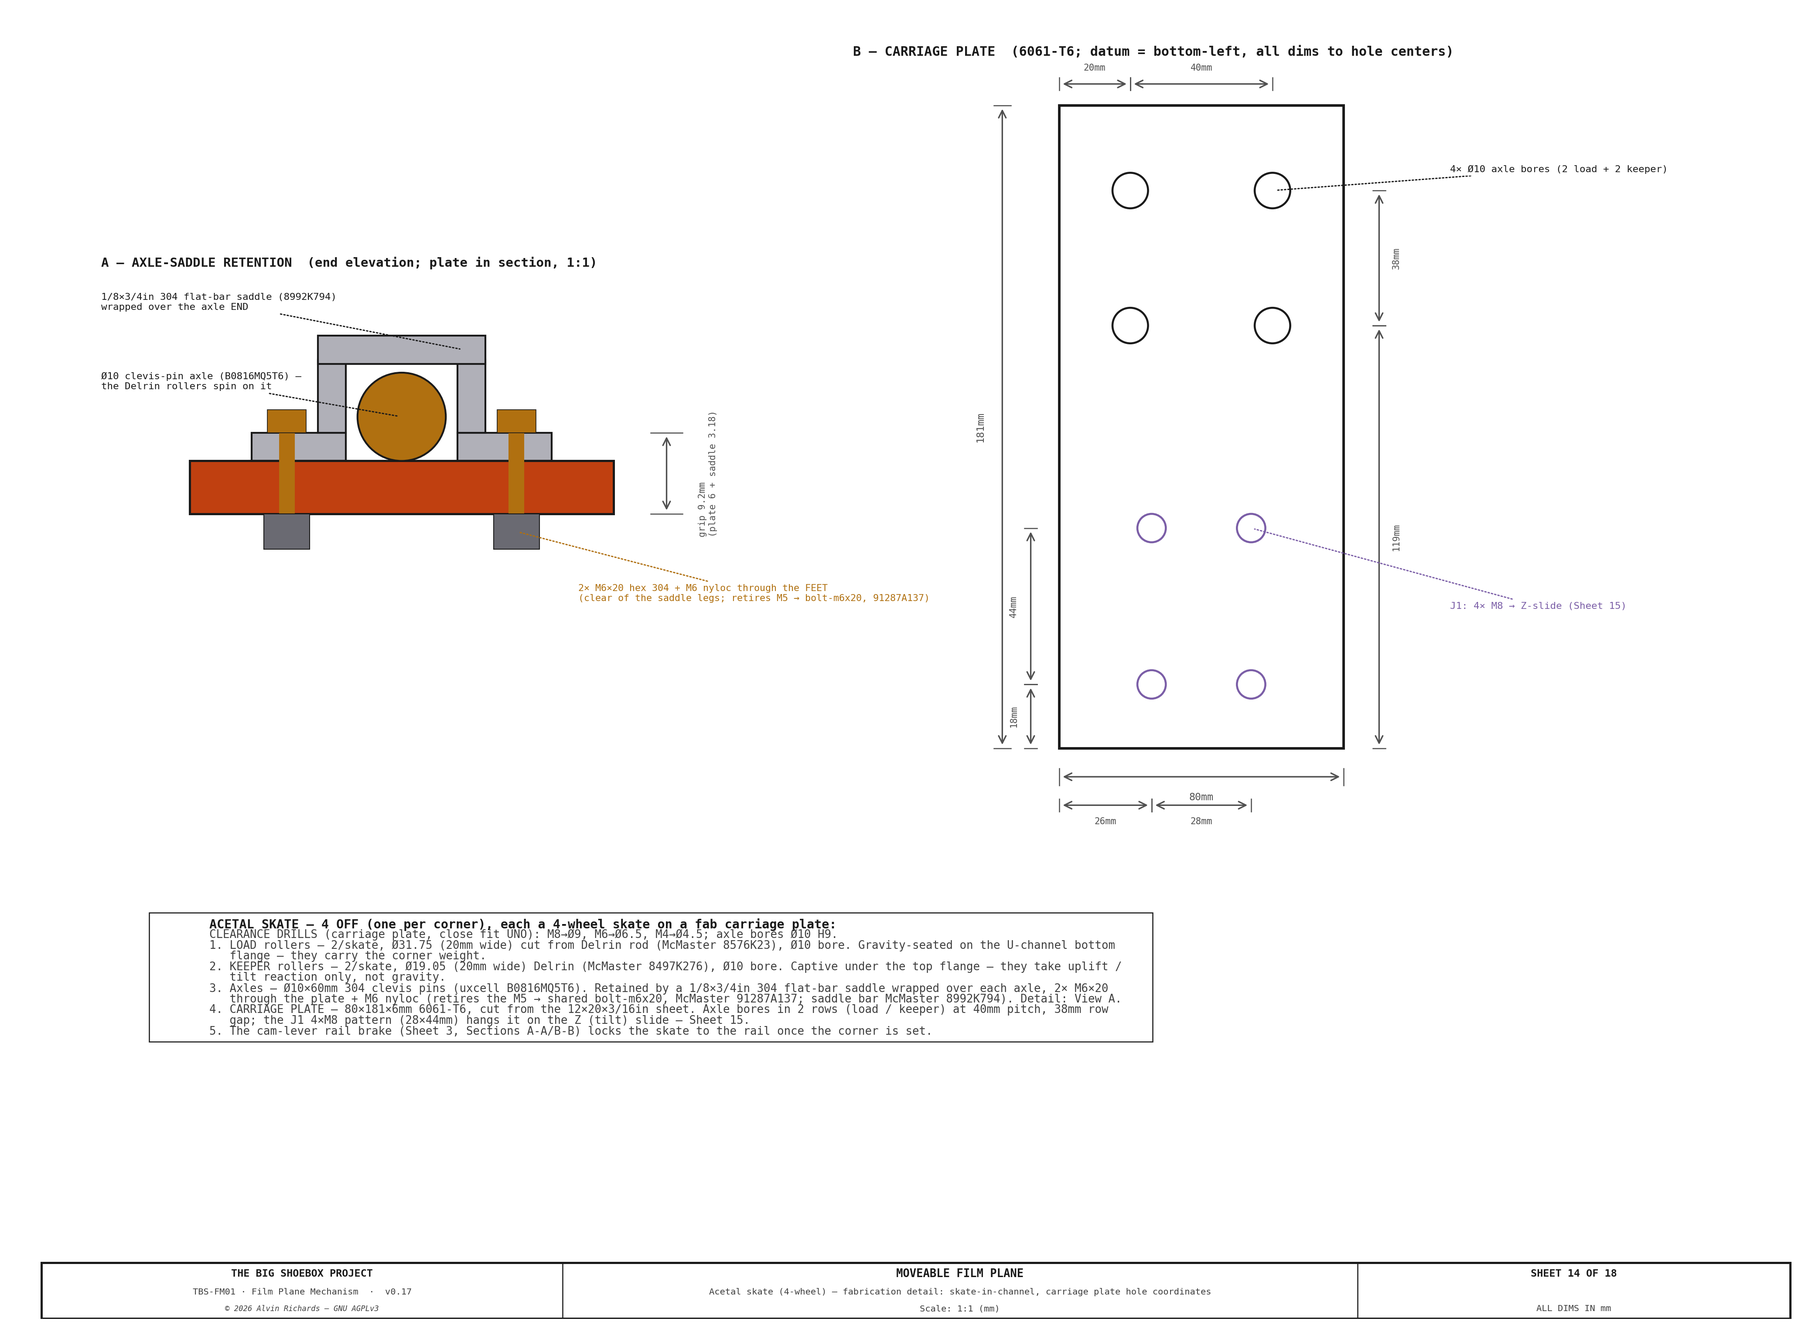
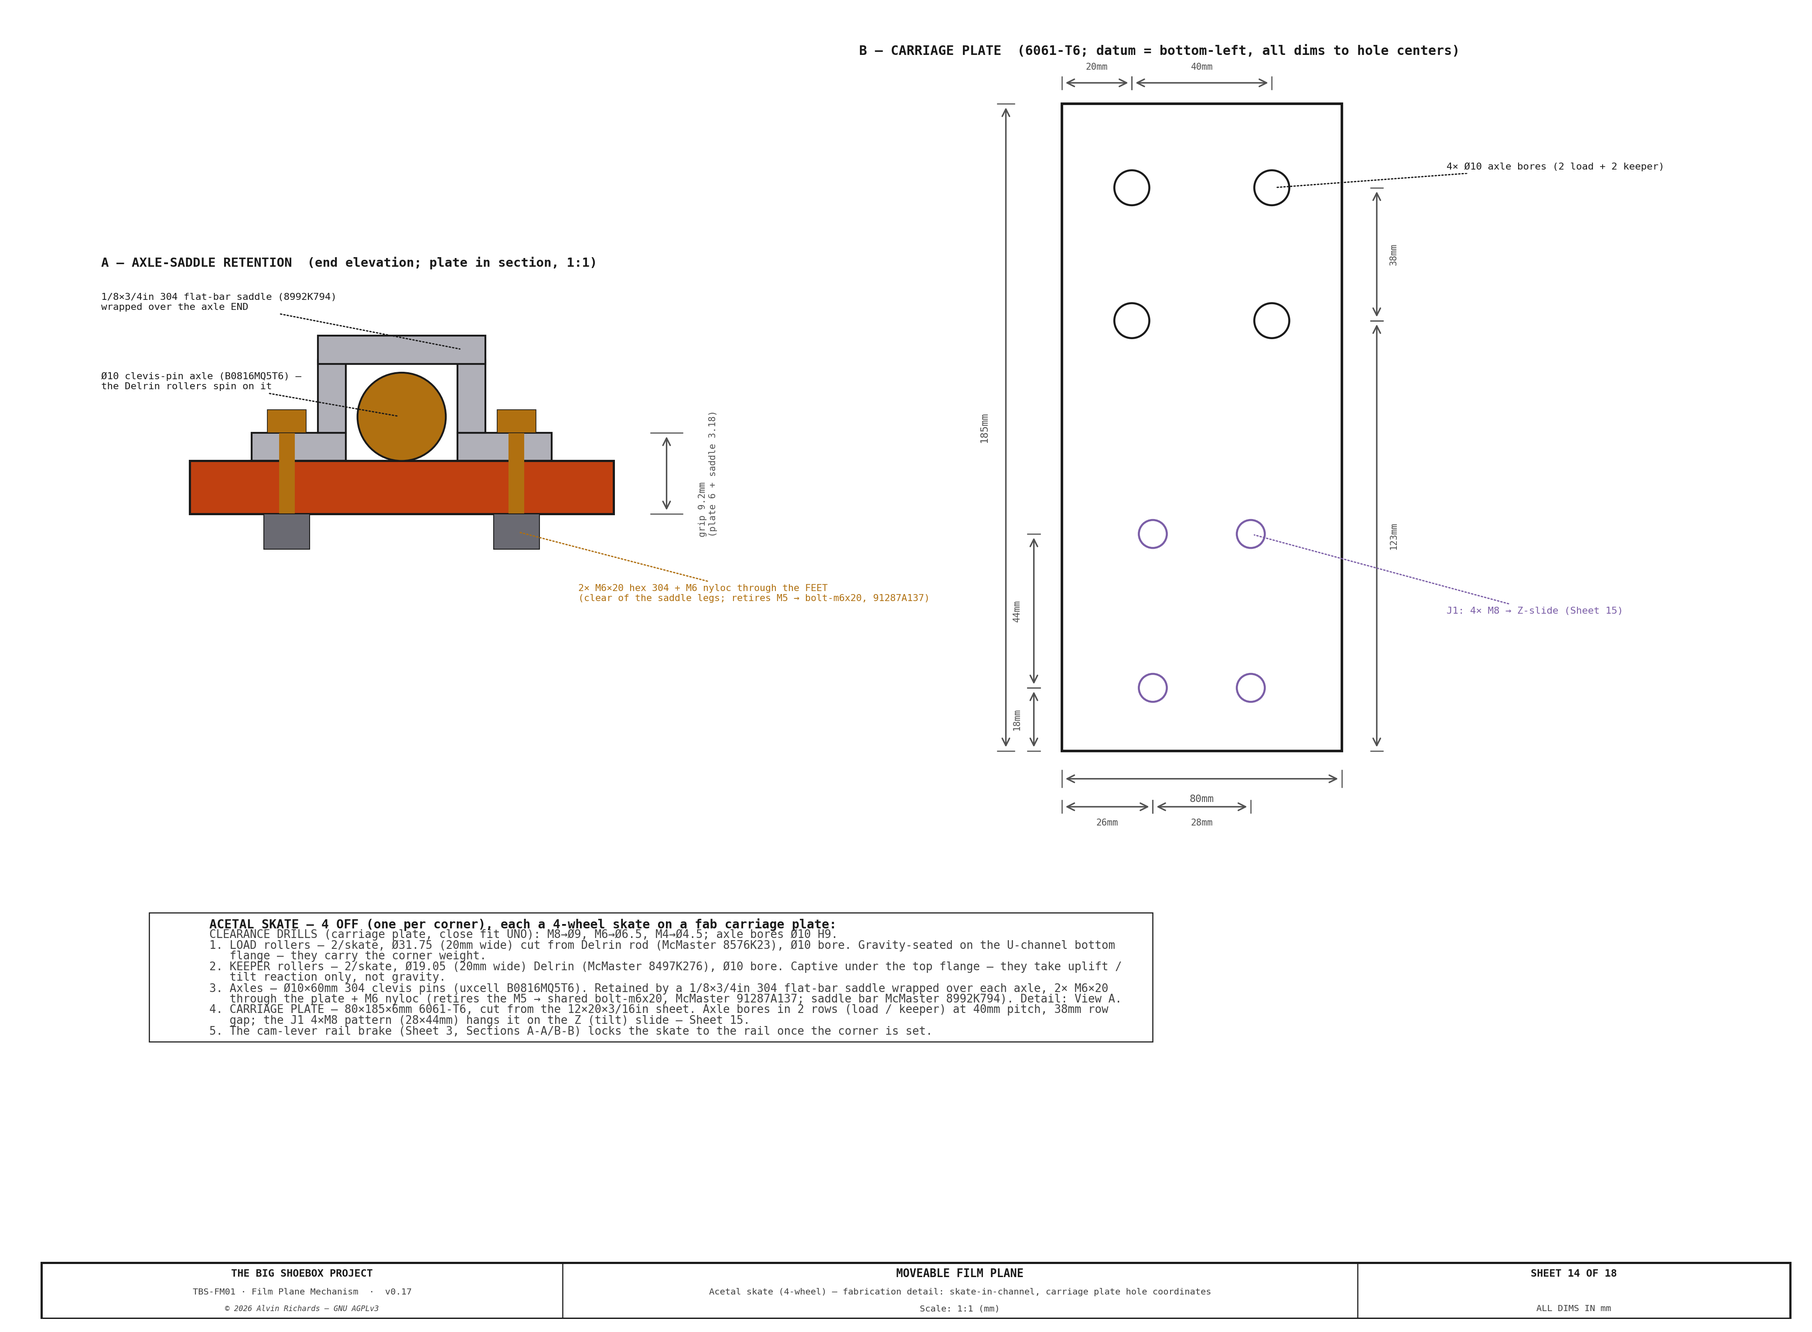
5mm fab-cut audit: carriage plate H 181->185; note gusset/gib exemptions
Swept all fabricated-part cut dimensions against the Track-B 5mm rule
(tbs_constants, model-local _CUT/_BLANK, parts.py fab rows). One true
violation: CARRIAGE_PLATE_H 181 -> 185 (skate carriage plate, 6mm 6061,
sheared from a 12x20 sheet) — rounded UP so the keeper-axle edge-distance
margin (min 171) is kept. 2D/docs only: the 3D corner builder derives the
plate height geometrically, not from the constant, so no model re-send.

Documented two in-place exemptions so a future audit won't re-flag them:
the corner L-gusset (CORNER_PLATE_LEG/CUT = 4in/6in, a laser/waterjet DXF
profile, not a saw/shear-fence cut) and XSLIDE_GIB_W (12mm stock brass
flat-bar width). Everything else already on 5mm / COTS / interface-pinned.

Sheets 3 + 14 re-rendered; lint byte-diff confirms the other 15 unchanged.

diff --git a/src/generators/tbs_constants.py b/src/generators/tbs_constants.py
@@ -199,7 +199,7 @@ XSLIDE_BAR_T = 6.35    # cross-slide flat-bar thickness (mm) = 1/4"
 XSLIDE_Z_BAR_LEN = 345 # Z (tilt) slide bar cut length (mm) = XSLIDE_Z_TRAVEL 245 + ~carriage/margin — sized to hold MAX_TILT (corner blueprint 2026-08-10)
 XSLIDE_X_BAR_LEN = 365 # X (swing) slide bar cut length (mm) = XSLIDE_X_TRAVEL 257 + ~carriage/margin — sized to hold MAX_SWING
 XSLIDE_UHMW_T = 3.2    # UHMW self-lube pad thickness (mm, 1/8") between carriage and bar bearing faces
-XSLIDE_GIB_W  = 12     # adjustable gib width (mm) — brass-tipped taper strip on one bar edge
+XSLIDE_GIB_W  = 12     # adjustable gib width (mm) — brass-tipped taper strip on one bar edge (stock brass flat-bar width; 5mm-cut-rule exempt)
 XSLIDE_GIB_T  = 6.35   # gib thickness (mm) = 1/4"
 XSLIDE_CARR_WALL = 8   # cross-slide carriage wall thickness (mm) around the bar
 # Belden SSNBUJ750x3/8KB needle-bearing U-joint (Grainger 41D816; datasheet eng-specs/grainger-41d816.pdf):
@@ -222,9 +222,10 @@ SKATE_AXLE_OD   = 10     # axle-pin OD (mm) — 10x60mm 304 clevis pin
 SKATE_AXLE_LEN  = 60     # axle-pin length (mm)
 SKATE_ROLLER_SP = 40     # load-roller pitch along the rail (Yd) on the carriage plate (mm)
 # Skate carriage plate — 6mm 6061-T6; the MOVING part the 4-wheel skate + Z-slide + cam clamp mount to
-# (Sheet 3 View A). H grown 171→181 so the top keeper-axle row clears its ≥2×Ø10 edge distance.
+# (Sheet 3 View A). H needs ≥171 so the top keeper-axle row clears its ≥2×Ø10 edge distance; rounded UP
+# to 185 per the 5mm cut rule (sheared from a 12×20 sheet — the extra 4mm keeps the edge-distance margin).
 CARRIAGE_PLATE_W  = 80   # plate width along Yd (mm)
-CARRIAGE_PLATE_H  = 181  # plate height along Z (mm) — grown +10 for keeper-axle edge distance
+CARRIAGE_PLATE_H  = 185  # plate height along Z (mm) — keeper-axle edge distance (min 171), rounded up to the 5mm cut
 CARRIAGE_PLATE_T  = 6    # plate thickness (mm) — 6061-T6
 CARRIAGE_AXLE_ROW_SP = 38  # Z gap between the load-axle row and the keeper-axle row (mm)
 # 4 SHORT STUB axles (Ø SKATE_AXLE_OD) at ±SKATE_ROLLER_SP/2 (Yd) × 2 rows (load / keeper).
@@ -234,7 +235,8 @@ CARRIAGE_J1_SP_Z  = 44   # J1 4×M8 Z-slide-mount hole pattern height (Z, mm)
 # both arms coplanar in the frame plane (parts.py corner-l-plate; was a press-brake 6×8 L-plate until
 # 2026-09-05, then a stock 4×4×¼ bent ANGLE until 2026-10-21 — the bent leg fouled the cross-slide/carriage
 # packaging, so the mount is now a FLAT L-plate with both legs in the frame plane). LEG/CUT define the L: two
-# 4in arms, ~6in overall span, ¼in thick:
+# 4in arms, ~6in overall span, ¼in thick. (5mm-cut-rule EXEMPT: a laser/waterjet DXF profile, not a
+# saw/shear-fence cut — the round 4in/6in imperial gains nothing from a metric 5mm round.)
 CORNER_PLATE_LEG = 101.6   # L-gusset arm width (mm) = 4"
 CORNER_PLATE_CUT = 152.4   # L-gusset overall span along each frame member (mm) = 6"
 CORNER_PLATE_T   = 6.35    # plate thickness (mm) = 1/4"

diff --git a/src/generators/parts.py b/src/generators/parts.py
@@ -800,7 +800,7 @@ PARTS: list[Part] = [
          spec="Nyloc nut under the carriage plate — M6×20 skate axle-saddle screws (2/saddle ×16 = 32). Transport-vibration-safe. Pitch M6×1.0 coarse — 90576A115. $4.77/pack of 100."),
     Part("fp-carriage-plate", "Skate carriage plate (×4) — fab", "steel-structural",
          "film", 4, "ea", 34, 59, "local fab",
-         spec="One carriage plate per corner — carries the 4 rollers on their axles + the inboard lip; the U-joint/cross-slide stack bolts to it. The only fab piece of the skate. FIRM DESIGN (Sheet 3 View A): 80×181×6mm 6061-T6 (aluminum; grown to 181 tall so the top keeper-axle row clears its ≥2×Ø10 edge distance). Hole pattern: 4× Ø10 stub-axle holes on a 40(Yd)×38(Z) grid + 4× M8 (J1) to the Z-slide (28×44) + 2× M4 for the cam-clamp base; all holes ≥2×Ø from the edges. Est. cost — firm at fab quote."),
+         spec="One carriage plate per corner — carries the 4 rollers on their axles + the inboard lip; the U-joint/cross-slide stack bolts to it. The only fab piece of the skate. FIRM DESIGN (Sheet 3 View A): 80×185×6mm 6061-T6 (aluminum; min 171 tall so the top keeper-axle row clears its ≥2×Ø10 edge distance, rounded up to 185 per the 5mm cut rule). Hole pattern: 4× Ø10 stub-axle holes on a 40(Yd)×38(Z) grid + 4× M8 (J1) to the Z-slide (28×44) + 2× M4 for the cam-clamp base; all holes ≥2×Ø from the edges. Est. cost — firm at fab quote."),
     Part("fp-cross-slide", "304 flat-bar Z (tilt) + X (swing) cross-slides + UHMW pad + gib", "steel-structural",
          "film", 4, "set", 79, 129, "Metal Supermarkets", "McMaster-Carr",
          spec="One 2-axis cross-slide stack per corner — 304 flat-bar Z (tilt) + X (swing) slides on UHMW pads with an adjustable gib. MOUNT DEEP: the 38.1mm bar dimension runs in the gravity/load direction, NOT flat (Sheet 10 load case — deep SF≈10 vs flat 1.7; flat fails a 2× factor). FLAT-BAR STOCK: 304 SS ¼\"×1½\" (6.35×38.1mm); 8 pieces (4× ~345mm Z-tilt + 4× ~365mm X-swing) ≈ 2.84m cut length → order 2× 8ft lengths (bars grown from the ~250mm est to hold ±40°/±28°: the cross-slide stroke needs travel + carriage — corner blueprint 2026-08-10). 304 (not 316) — the cyanotype wash has no chloride, so 316's pitting resistance is unused; 304 is adequate in the splash zone. FLAT BAR FIRM: Metal Supermarkets ¼×1½×8ft 304 $134.73 (2026-08-01); 2× 8ft = $269.46 = ~$67/set of bar. UHMW pad + brass-tip gib + cut/assemble fab still est — the $316–516 range brackets bar + those adds; get a fab quote to firm the balance."),

diff --git a/src/generators/generate_film_plane_mechanism.py b/src/generators/generate_film_plane_mechanism.py
@@ -710,7 +710,7 @@ def view_a(ax):
         ax.plot([p[0] for p in zz],[p[1] for p in zz], color=OUT, lw=0.7, zorder=4)
     # ── WIDE carriage plate (red) — the MOVING part, drawn FULLY and IN FRONT: it extends UP over the skate, so
     #    the 4 wheels sit BEHIND it and are shown ghosted (dotted). The Z-slide (green) runs up its centre. ──
-    _rect(ax, 130, 134, CARRIAGE_PLATE_W, CARRIAGE_PLATE_H, C_CAR, z=5)              # carriage plate 80×181×6mm 6061-T6 (top grown +10 for keeper-axle edge dist)
+    _rect(ax, 130, 134, CARRIAGE_PLATE_W, CARRIAGE_PLATE_H, C_CAR, z=5)              # carriage plate 80×185×6mm 6061-T6 (keeper-axle edge dist, rounded up to the 5mm cut)
     # ── carriage-plate HOLE PATTERN (located, ≥2×Ø edge distance) ─────────────────
     _ax_yd = (170 - SKATE_ROLLER_SP / 2, 170 + SKATE_ROLLER_SP / 2)                  # ±SKATE_ROLLER_SP/2
     _ax_z = (253, 253 + CARRIAGE_AXLE_ROW_SP)                                        # load row / keeper row

diff --git a/docs/film-plane-mechanism-report.md b/docs/film-plane-mechanism-report.md
@@ -223,7 +223,7 @@ All items ship within the United States. Local Southern California pickup noted 
 | [1/8×3/4in 304 flat-bar axle saddles (skate) — 2 ft bar](https://www.mcmaster.com/8992K794-8992K797/) (8992K794) | Axle retention — formed from 1/8" (3.18mm) × 3/4" (19mm) 304 SS flat bar, wrapped over each Ø10 axle (1mm cradle clearance) with two ~12mm feet bolted through the carriage plate (2× Ø6.5 M6). One saddle per axle, 4/skate ×4 = 16; 8 cut per 2 ft (610mm) length → 2 bars. Same stock + method as the spray skate. $9.84/2 ft bar (confirmed 2026-09-06). | 2 2 ft bar | McMaster-Carr | $20 |
 | [M6×1.0 × 20 hex bolt, 304 SS (A2-70)](https://www.mcmaster.com/91287A137/) (91287A137) | Skate axle-saddle retention — 2× M6 per saddle, 16 saddles = 32. Grip = 6mm carriage plate + 3.18mm saddle foot ≈ 9.2mm → M6×20 (nyloc under the plate). 304 SS A2-70 (wet cyanotype zone; no chloride → 316 unneeded). Consolidated onto the shared M6×20 — retires the former M5 (one M6 family, fastener-standardization). McMaster 91287A137 $17.77/pack of 50 firm. | 32 ea | McMaster-Carr | $11 |
 | [M6×1.0 hex nut, nyloc SS](https://www.mcmaster.com/90576A115/) (90576A115) | Nyloc nut under the carriage plate — M6×20 skate axle-saddle screws (2/saddle ×16 = 32). Transport-vibration-safe. Pitch M6×1.0 coarse — 90576A115. $4.77/pack of 100. | 32 ea | McMaster-Carr | $2 |
-| Skate carriage plate (×4) — fab | One carriage plate per corner — carries the 4 rollers on their axles + the inboard lip; the U-joint/cross-slide stack bolts to it. The only fab piece of the skate. FIRM DESIGN (Sheet 3 View A): 80×181×6mm 6061-T6 (aluminum; grown to 181 tall so the top keeper-axle row clears its ≥2×Ø10 edge distance). Hole pattern: 4× Ø10 stub-axle holes on a 40(Yd)×38(Z) grid + 4× M8 (J1) to the Z-slide (28×44) + 2× M4 for the cam-clamp base; all holes ≥2×Ø from the edges. Est. cost — firm at fab quote. | 4 ea | Local fab | $136–$236 |
+| Skate carriage plate (×4) — fab | One carriage plate per corner — carries the 4 rollers on their axles + the inboard lip; the U-joint/cross-slide stack bolts to it. The only fab piece of the skate. FIRM DESIGN (Sheet 3 View A): 80×185×6mm 6061-T6 (aluminum; min 171 tall so the top keeper-axle row clears its ≥2×Ø10 edge distance, rounded up to 185 per the 5mm cut rule). Hole pattern: 4× Ø10 stub-axle holes on a 40(Yd)×38(Z) grid + 4× M8 (J1) to the Z-slide (28×44) + 2× M4 for the cam-clamp base; all holes ≥2×Ø from the edges. Est. cost — firm at fab quote. | 4 ea | Local fab | $136–$236 |
 | 304 flat-bar Z (tilt) + X (swing) cross-slides + UHMW pad + gib | One 2-axis cross-slide stack per corner — 304 flat-bar Z (tilt) + X (swing) slides on UHMW pads with an adjustable gib. MOUNT DEEP: the 38.1mm bar dimension runs in the gravity/load direction, NOT flat (Sheet 10 load case — deep SF≈10 vs flat 1.7; flat fails a 2× factor). FLAT-BAR STOCK: 304 SS ¼"×1½" (6.35×38.1mm); 8 pieces (4× ~345mm Z-tilt + 4× ~365mm X-swing) ≈ 2.84m cut length → order 2× 8ft lengths (bars grown from the ~250mm est to hold ±40°/±28°: the cross-slide stroke needs travel + carriage — corner blueprint 2026-08-10). 304 (not 316) — the cyanotype wash has no chloride, so 316's pitting resistance is unused; 304 is adequate in the splash zone. FLAT BAR FIRM: Metal Supermarkets ¼×1½×8ft 304 $134.73 (2026-08-01); 2× 8ft = $269.46 = ~$67/set of bar. UHMW pad + brass-tip gib + cut/assemble fab still est — the $316–516 range brackets bar + those adds; get a fab quote to firm the balance. | 4 set | Metal Supermarkets / McMaster-Carr | $316–$516 |
 | [M8×1.25 × 25 hex bolt, 304 SS (A2-70) — cross-slide joints J1/J2](https://www.mcmaster.com/92314A711/) (92314A711) | J1 (skate carriage → Z-slide) + J2 (X-way → Z-carriage) — 4× M8×25 each, 2 joints/corner ×4 = 32. THROUGH-BOLT + M8 nut (flat washer under head, split under nut), 24 N·m, Loctite 243 (Sheet 12). Length M8×25 for the 14mm J1 grip (6mm carriage plate + 8mm Z-carriage wall) + 2 washers + nut. 304 SS A2-70 (wet cyanotype zone; no chloride → 316 unneeded). McMaster 92314A711 $10.60/pack of 25 (sourced 2026-09-06). | 32 ea | McMaster-Carr | $14 |
 | [M8 flat washer, 304 SS](https://www.mcmaster.com/98689A673/) (98689A673) | Flat washer under each J1/J2 M8×25 head (Sheet 12). 304 SS, wet zone. McMaster 98689A673 $13.59/pack of 50 (sourced 2026-09-06). | 32 ea | McMaster-Carr | $9 |

diff --git a/RELEASE.md b/RELEASE.md
@@ -26,6 +26,7 @@ is no separate publish step to run afterward.
 
 ## [Unreleased]
 
+- **5mm fab-cut-dimension audit (all fabricated parts).** Extended the Track-B plywood 5mm cut rule to every fabricated part (steel/aluminum/stainless/plastics), sweeping all ~382 dimensional `tbs_constants`, the model-local `_CUT`/`_BLANK` dims, and the `parts.py` fab rows. The set was already almost entirely compliant (on-5mm, COTS stock, thickness/diameter, or interface-pinned). **One true violation fixed:** `CARRIAGE_PLATE_H` 181 → **185** (skate carriage plate, 6mm 6061, sheared from a 12×20 sheet) — rounded UP so the keeper-axle edge-distance margin (min 171) is preserved; cascaded to `parts.py`, the film-plane sheets, and the two hand-maintained specs. **2D/docs only — no model re-send** (the 3D corner builder derives the plate height geometrically, not from the constant). **Two exemptions documented in-place** so a future audit won't re-flag them: the corner L-gusset (`CORNER_PLATE_LEG`/`CUT` = 4″/6″, a laser/waterjet DXF profile, not a saw/shear-fence cut) and `XSLIDE_GIB_W` (12mm stock brass flat-bar width).
 - **Left-rail-move (260) stale-value cleanup (TODO #21).** Swept the pre-260 residue the value-sweep left in *rationale comments + rendered labels* (the drawings were already constant-driven, so geometry was correct): `tbs_constants.py` — the retired bearer-beam/3-floor-leg block rewritten to the current 5-floor-leg cantilever design, the drum-exit punch-out comment re-derived (reach 880 / 600 mm over Yd 800–1560), the stale `LEFT_WK_CANT_FOOT_X0 ≈147` comment fixed to 110; `processing-tray-and-spray-bar.md` — the LDPE manifold ends corrected to the beam ends **X=310 / X=4,599**; and the walkway/spray/floorplan diagram generators — the `generate_walkway_diagram.py` Detail-C header (retired edge-beam → current cantilever), its visible "TRAY RIM (X170)" / "FLOOR-LEG…(X140)…X470…X770" labels and inline `# NNN` comments → `280/250/580/880`. Two walkway sheets re-rendered. (Left flagged in TODO: a couple of ambiguous Sheet-4 butt-joint "edge beam / bearer (X=470)" refs + a possibly-current sub-plate `X=140`.)
 - **Dead-constant sweep — resolved the 23 reserved/unused `tbs_constants` (TODO #22).** Audited each: **17 dropped** (genuinely dead design intent + five redundant aliases of still-used constants — `RWK_HL`→`RWK_HL_TIP`, `SPRAY_BAR_HOLE_SP`→`SPRAY_BAR_NOZZLE_PITCH`, `LT_EDGE_CHAN_*`→`LT_HBAR_*`, plus `UJOINT_HUB_L/BOOT_LEN`, the `CAM_CLAMP_*` detail dims, `BRACE_T`, `EP_RISE_X_P`, `SPRAY_BAR_BORE/HOLE_DIA`). **6 were CHECK-E false positives** — actually consumed by the facts-injection system (`EVAP_CFM_RATED`, `IBC_CEILING_CLEARANCE_MM`, `BLUE_SUPPLY_GAL`, `COLLECTION_FILL_L`, `LOST_L`) or the dependency-map injector (`XSLIDE_N`); removed their wrong `# reserved` annotation and fixed the stale `COLLECTION_FILL_L`/`LOST_L` comments (630→622, 434→465, which the live doc placeholders already computed). **Taught CHECK E** to also scan `facts.yml` + `component-dependency-map.md` so facts/cdm-wired constants stop being mis-flagged — CHECK E now reports 0 dead. No generator/model/diagram changed (the dropped constants had no consumers).
 - **Corner cleanup after the reconcile — retired the incorrect/redundant Sheet 8, fixed the 4040N12 count, dropped the dead bend-radius constant.** **Sheet 8** (frame-corner ↔ cross-slide attachment) drew the U-joint through-axis along X/Z, contradicting Sheet 9 + the 3D (axis = Y), and a correct version just duplicated Sheet 9 — so it was **retired** (the same way Sheet 10 was earlier: removed, gap left, "OF 18" kept) and its teaching folded into the Sheet 9 paragraph; its J1/J2 fastener cross-refs now point to the Sheet 12 fastener schedule. The **4040N12 shaft-support count** in the corner rationale went **2→1 per corner** (the output stub bolts straight to the flat gusset via a countersunk cap screw, so only the input stub needs a support — matching `parts.py` qty 4, the report, Sheet 9 + the 3D). **`CORNER_PLATE_BEND_R`** confirmed dropped (a flat L-gusset has no bend) and removed from the reserved-constants TODO.

diff --git a/docs/fp-corner-blueprint-spec.md b/docs/fp-corner-blueprint-spec.md
@@ -145,5 +145,5 @@ slack exists between `RAIL_OFF_TOP`→2244 and `FP_H`→2254; optional future cl
 
 - ~~Exact travel values for the promoted `XSLIDE_*`~~ **DONE 2026-08-13** — verified vs geometry (Sheet 10): Z 245 / X 257 mm.
 - ~~Belden U-joint booted length + bolt/key detail~~ **DONE 2026-08-13.** Reviewed the plain `UJ-SS750x375` datasheet (`eng-specs/UJ-SS750x375__ZE41.pdf`) — OD 19.05 / length 68.3 / yoke 34.2 / hub 24.1 / 45° confirmed — but it has no keyway/set-screw, so **selected the retained variant: Belden SSNBUJ750x3/8KB (Grainger 41D816, $252.13 ea)** — 3/8″ **keyway bore (3/32×3/64 key) + set screw**, needle-bearing, stainless, 45° max, and **factory-booted** (integral bellows `UJOINT_BOOT_OD` 32.54 / `UJOINT_BOOT_LEN` 31.75 — no separate boot). Cascaded to constants / parts (fp-ujoint + fp-ujoint-key, boot line dropped) / costing (+~$403) / Sheets 3·8·9 / report. (3D model label re-send pending.)
-- ~~Carriage-plate hole pattern~~ **DONE 2026-08-13** — plate firmed at **80×181×6mm 6061-T6** (`CARRIAGE_PLATE_*`, grown +10 for keeper edge distance); pattern **4× Ø10 stub-axle (40×38) + 4× M8 J1 + 2× M4 cam**, all ≥2×Ø from edges; drawn on Sheet 3 View A + firmed in `parts.py` fp-carriage-plate. (L-plate/corner-plate pattern already in `CORNER_PLATE_HOLE_*`.)
+- ~~Carriage-plate hole pattern~~ **DONE 2026-08-13** — plate firmed at **80×185×6mm 6061-T6** (`CARRIAGE_PLATE_*`, min 171 for keeper edge distance, rounded up to 185 per the 5mm cut rule); pattern **4× Ø10 stub-axle (40×38) + 4× M8 J1 + 2× M4 cam**, all ≥2×Ø from edges; drawn on Sheet 3 View A + firmed in `parts.py` fp-carriage-plate. (L-plate/corner-plate pattern already in `CORNER_PLATE_HOLE_*`.)
 - ~~Per-corner load + cross-slide bending SF~~ **DONE 2026-08-13** (Sheet 10): 124 N/corner; bars mounted **DEEP** → SF ≈ 10 (flat 1.7, not used).

diff --git a/docs/superpowers/plans/2026-09-05-film-plane-fab-blueprint.md b/docs/superpowers/plans/2026-09-05-film-plane-fab-blueprint.md
@@ -111,7 +111,7 @@ git commit -m "Film-plane blueprint Phase 0: interference triage + bolt edge-dis
 - Modify: `dependencies.yml`, `all-diagrams.md`
 
 **Interfaces:**
-- Consumes: `SKATE_ROLLER_OD` (31.75), `SKATE_KEEPER_OD` (19.05), `SKATE_ROLLER_W` (20), `SKATE_AXLE_OD` (10), `SKATE_AXLE_LEN` (60), `SKATE_ROLLER_SP` (40), `CARRIAGE_PLATE_W` (80), `CARRIAGE_PLATE_H` (181), `CARRIAGE_PLATE_T` (6), `CARRIAGE_AXLE_ROW_SP` (38).
+- Consumes: `SKATE_ROLLER_OD` (31.75), `SKATE_KEEPER_OD` (19.05), `SKATE_ROLLER_W` (20), `SKATE_AXLE_OD` (10), `SKATE_AXLE_LEN` (60), `SKATE_ROLLER_SP` (40), `CARRIAGE_PLATE_W` (80), `CARRIAGE_PLATE_H` (185), `CARRIAGE_PLATE_T` (6), `CARRIAGE_AXLE_ROW_SP` (38).
 - Produces: `sheet13()`. **Wires the dead constants `SKATE_AXLE_LEN`, `SKATE_ROLLER_W`.**
 
 **Drawing spec (the acetal skate assembly):**
